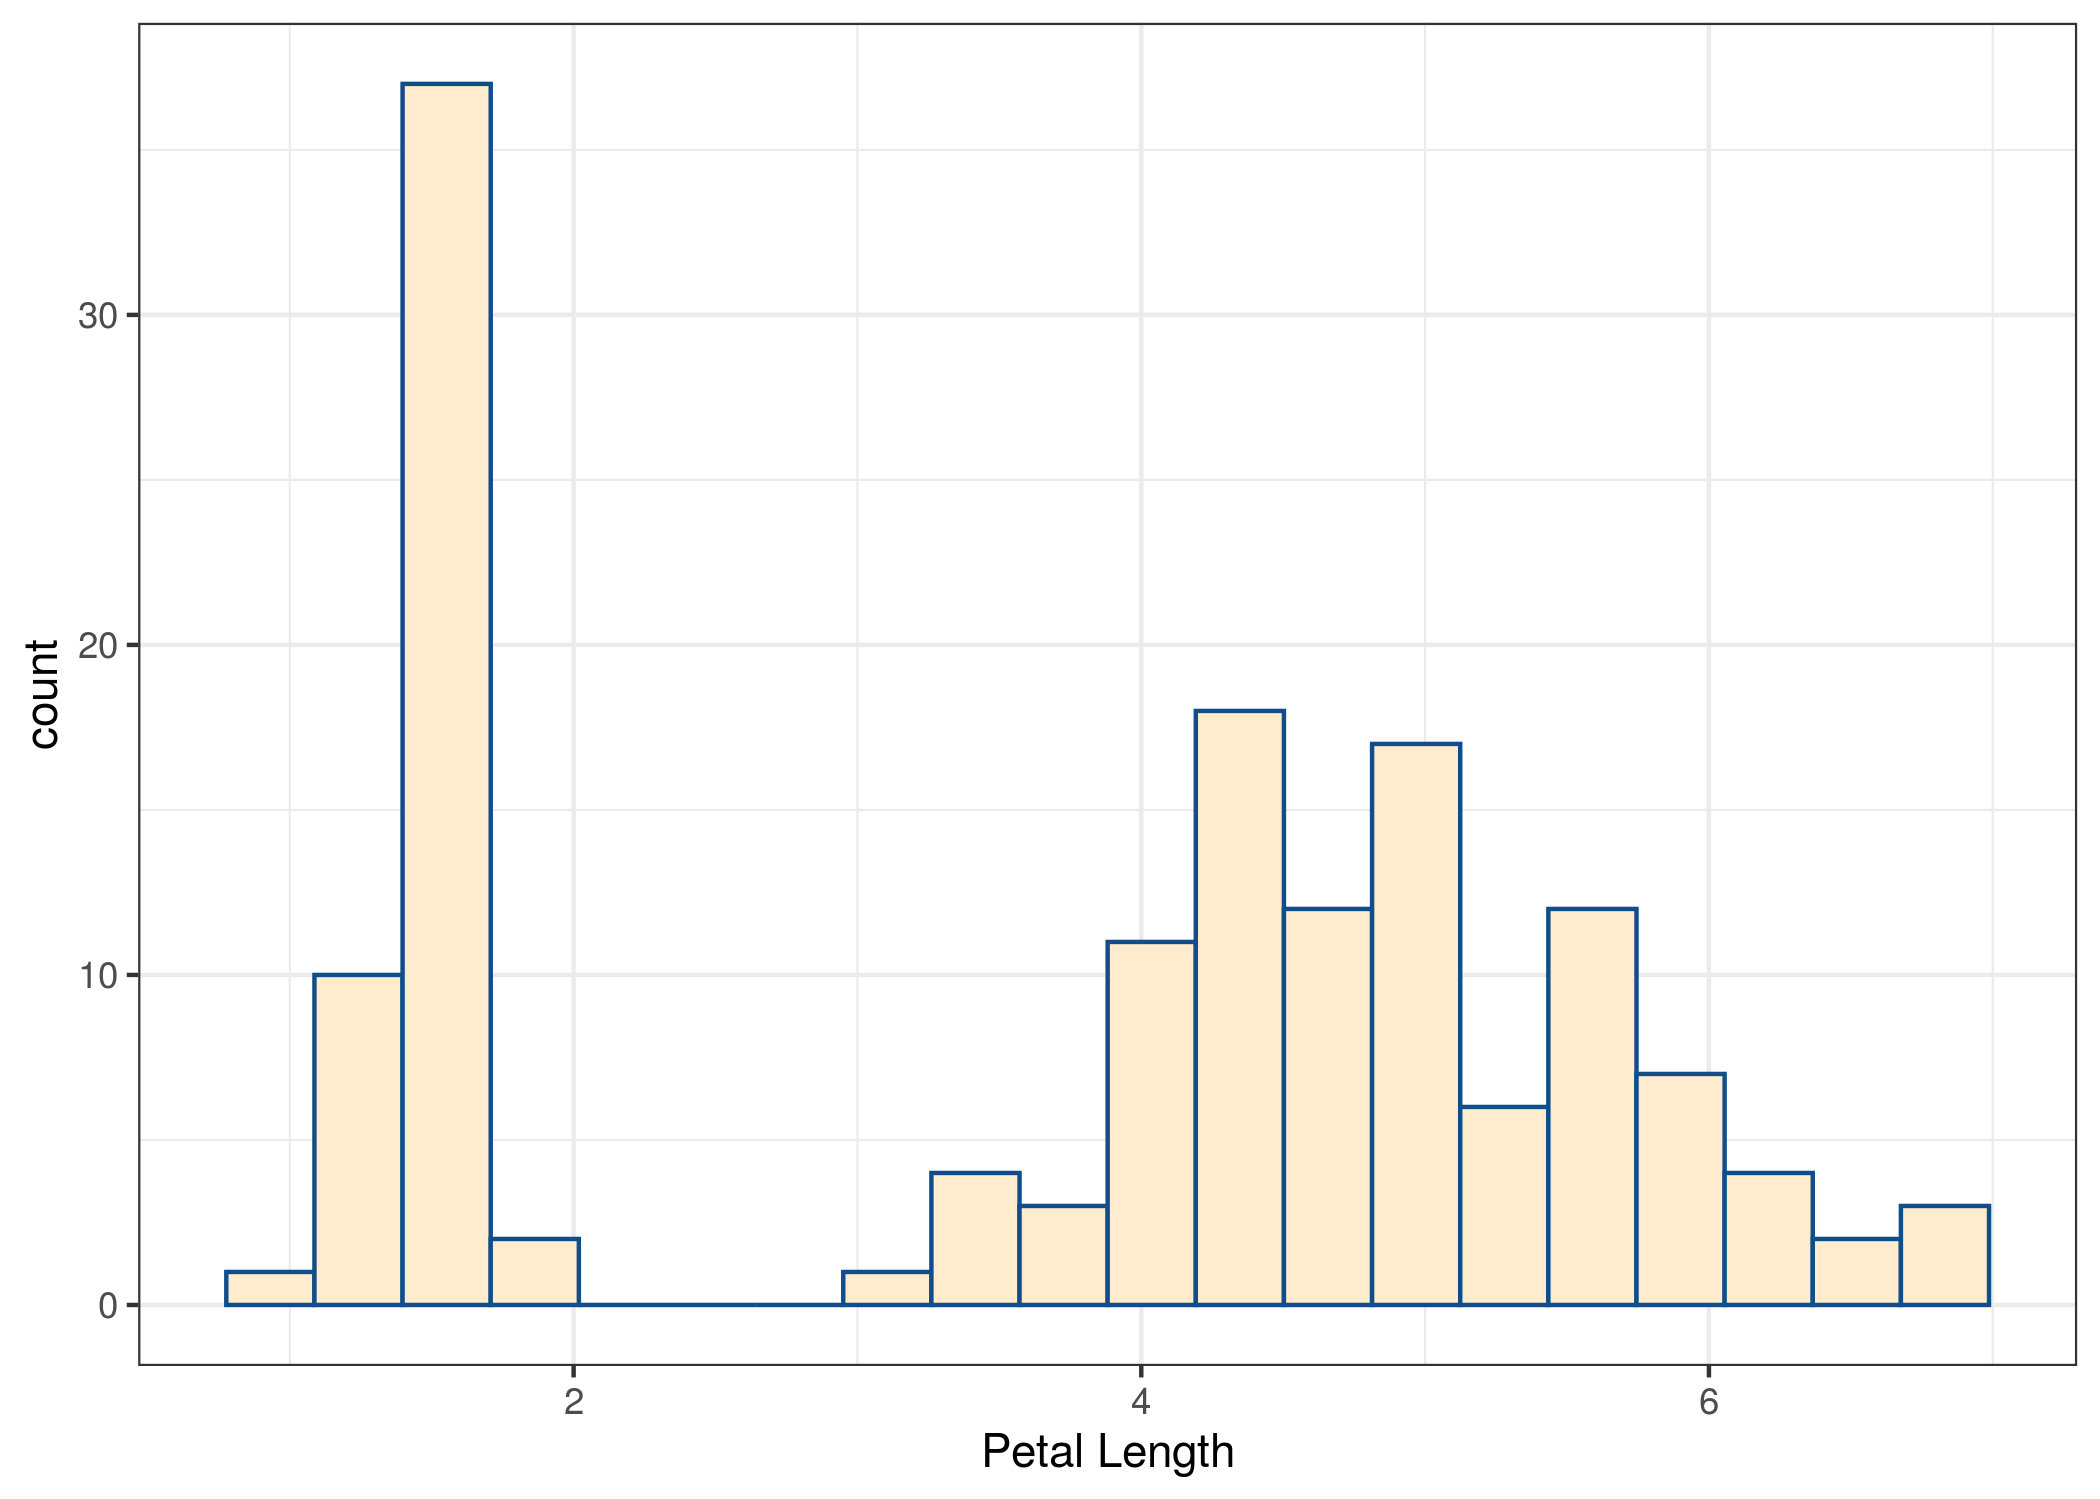
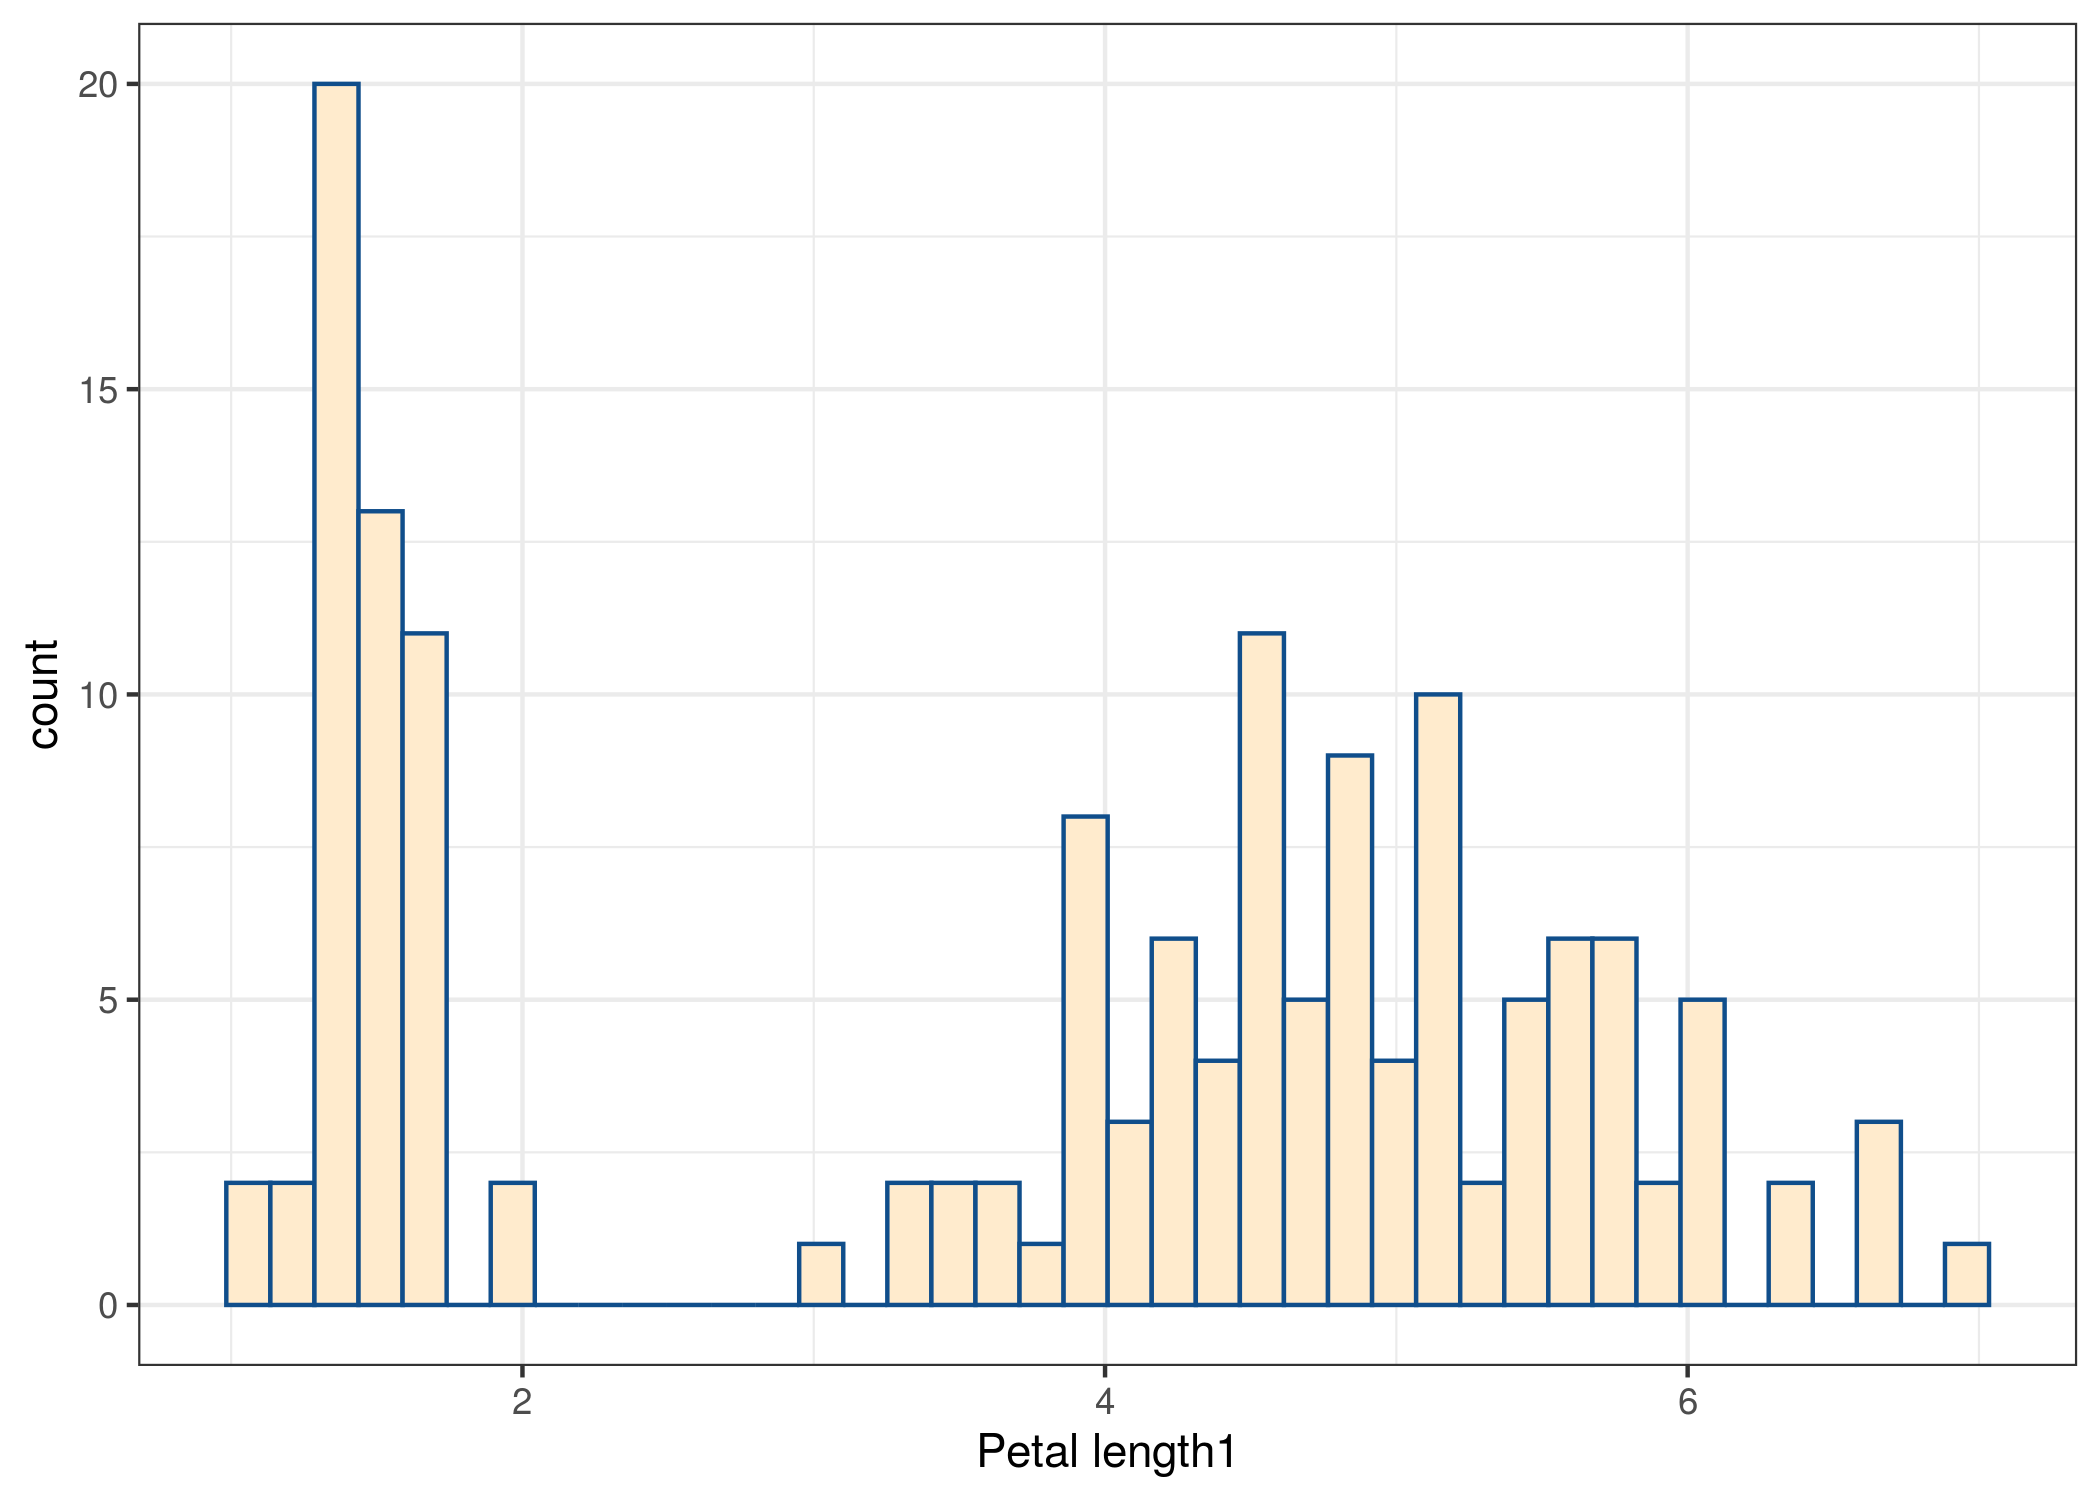
latest commit

diff --git a/Practice-Plotting-Github.html b/Practice-Plotting-Github.html
@@ -369,10 +369,10 @@ summary {
 <pre class="r"><code>ggplot(iris, aes(x = Petal.Length)) + 
   geom_histogram(fill = &quot;blanchedalmond&quot;,
                  color = &quot;dodgerblue4&quot;, 
-                 bins=20) +
-  theme_bw() + labs(x= &quot;Petal Length&quot;)-&gt;thing
+                 bins=40) +
+  theme_bw() + labs(x= &quot;Petal length1&quot;)-&gt;thing
 thing</code></pre>
[2 lines of base64/hex data omitted]
 <pre class="r"><code>ggsave(&quot;practice_plot.png&quot;, thing)</code></pre>
 <pre><code>## Saving 7 x 5 in image</code></pre>
 
